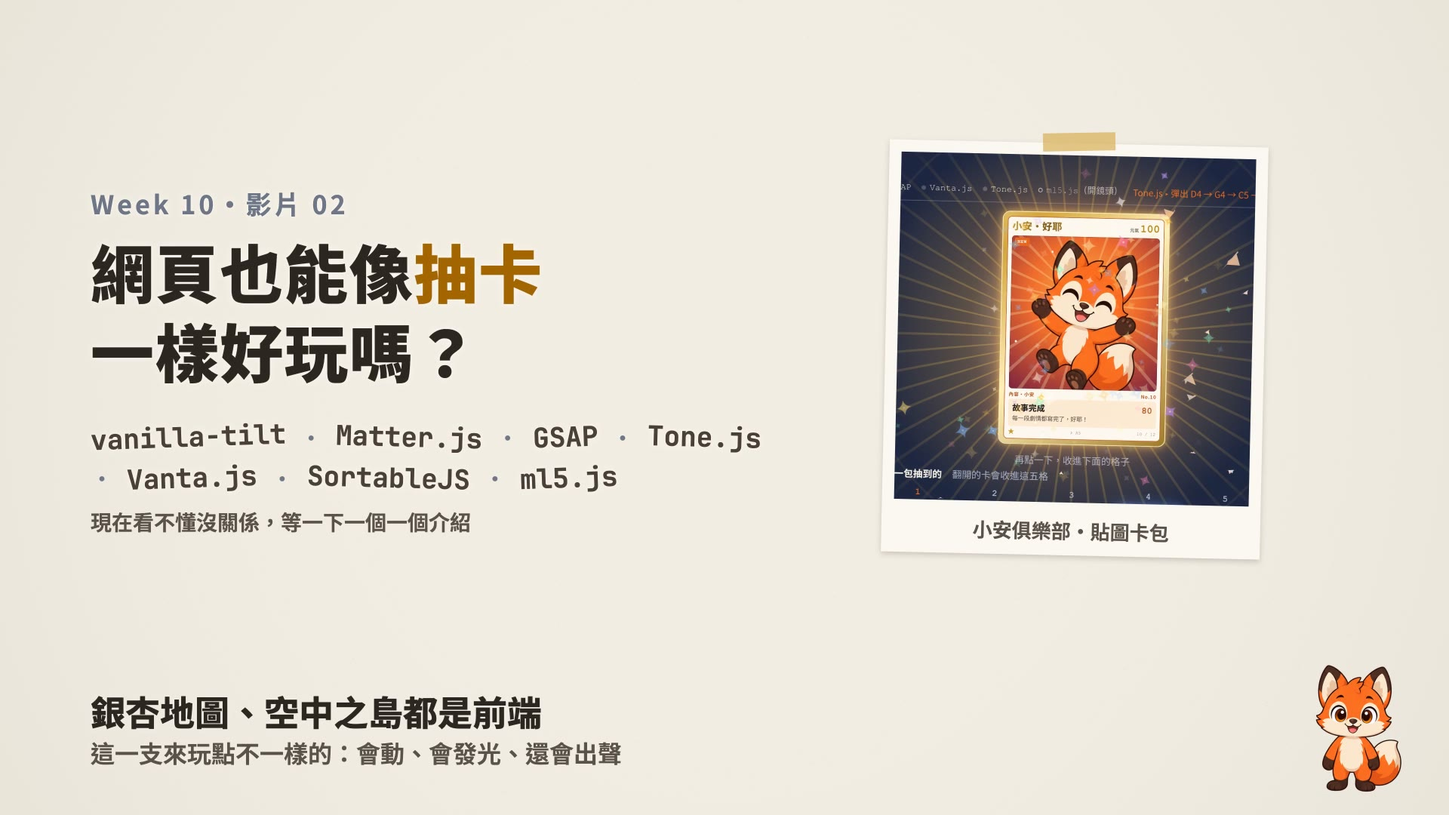
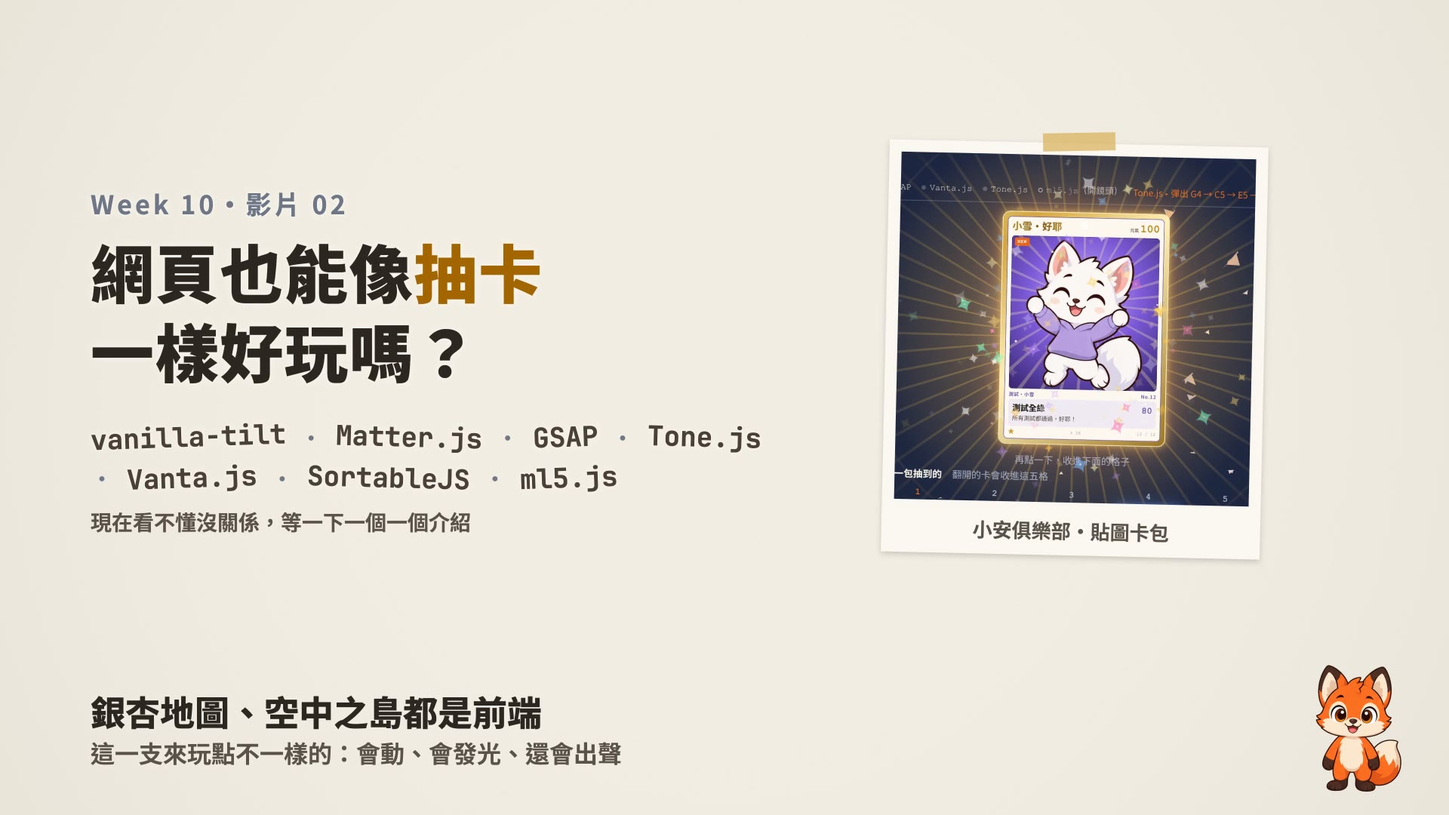
Week 10 video 02 v2 (3:51) and a fixed, more realistic card pack. The teacher's play test: when a card slid into the ranking row, the row shifted sideways and came back for every card. GSAP Flip ran with absolute: true, taking the moving card out of the centred row, so the row was one slot short dur

Changed region(s): [[0.6562, 0.2139, 0.8438, 0.5806]]

diff --git a/weeks/week10/cards-7q3k/app.js b/weeks/week10/cards-7q3k/app.js
@@ -204,8 +204,12 @@
       push(b);
     }
     function strip(rect) {
-      const b = Bodies.rectangle(rect.left + rect.width / 2, rect.top + rect.height / 2, rect.width, rect.height, { restitution: 0.2, friction: 0.6, frictionAir: 0.03, density: 0.0008 });
-      b.plugin = { kind: 'strip', w: rect.width, h: rect.height, born: performance.now() };
+      const cx = rect.cx != null ? rect.cx : rect.left + rect.width / 2, cy = rect.cy != null ? rect.cy : rect.top + rect.height / 2;
+      const b = Bodies.rectangle(cx, cy, rect.width, rect.height, { restitution: 0.2, friction: 0.6, frictionAir: 0.03, density: 0.0008 });
+      if (rect.angle) Body.setAngle(b, rect.angle);
+      const jag = []; let jy = 2;
+      for (let i = 0; i <= Math.max(8, Math.round(rect.width / 5)); i++) { jy = Math.max(0.3, Math.min(4.4, jy + (Math.random() - 0.5) * 2.6)); jag.push(jy); }
+      b.plugin = { kind: 'strip', w: rect.width, h: rect.height, born: performance.now(), jag };
       Body.setVelocity(b, { x: -2, y: -8 }); Body.setAngularVelocity(b, -0.05);
       push(b);
     }
@@ -240,10 +244,19 @@
         } else {
           const g = ctx.createLinearGradient(-p.w / 2, 0, p.w / 2, 0);
           g.addColorStop(0, '#f9b45a'); g.addColorStop(0.5, '#e8641b'); g.addColorStop(1, '#b9430e');
+          const J = p.jag, n = J.length - 1, w2 = p.w / 2, h2 = p.h / 2;
+          ctx.beginPath(); ctx.moveTo(-w2, -h2 + 4);                                    // 上緣：壓封的鋸齒
+          for (let x = 0, k = 0; x <= p.w; x += 4.5, k++) ctx.lineTo(-w2 + x, -h2 + (k % 2 ? 0 : 4));
+          for (let i = n; i >= 0; i--) ctx.lineTo(-w2 + i * p.w / n, h2 + J[i]);         // 下緣：撕開的鋸齒
+          ctx.closePath();
           ctx.shadowColor = 'rgba(40,25,10,.25)'; ctx.shadowBlur = 5; ctx.shadowOffsetY = 2;
-          ctx.fillStyle = g; ctx.fillRect(-p.w / 2, -p.h / 2, p.w, p.h);
-          ctx.shadowColor = 'transparent'; ctx.fillStyle = 'rgba(255,255,255,.28)';
-          for (let x = -p.w / 2; x < p.w / 2; x += 6) ctx.fillRect(x, -p.h / 2, 2, p.h);
+          ctx.fillStyle = g; ctx.fill();
+          ctx.shadowColor = 'transparent';
+          ctx.save(); ctx.clip(); ctx.fillStyle = 'rgba(255,255,255,.28)';
+          for (let x = -w2; x < w2; x += 6) ctx.fillRect(x, -h2, 2, p.h + 6);
+          ctx.restore();
+          ctx.beginPath(); for (let i = 0; i <= n; i++) ctx[i ? 'lineTo' : 'moveTo'](-w2 + i * p.w / n, h2 + J[i] - 0.6);
+          ctx.strokeStyle = 'rgba(255,247,234,.95)'; ctx.lineWidth = 1.4; ctx.stroke();
         }
         ctx.restore();
       }
@@ -360,6 +373,11 @@
       for (const p of parts) {
         p.life += dt; p.vy += p.g * dt; p.vx *= 1 - 1.6 * dt; p.vy *= 1 - 1.2 * dt; p.x += p.vx * dt; p.y += p.vy * dt; p.rot += p.spin * dt;
         const k = p.life / p.max, fade = k < 0.15 ? k / 0.15 : 1 - (k - 0.15) / 0.85, tw = 0.65 + 0.35 * Math.sin(p.life * p.tw);
+        if (p.flake) {   // 紙屑：小紙片翻著掉下來，不發光
+          g.globalCompositeOperation = 'source-over'; g.globalAlpha = Math.max(0, fade); g.fillStyle = p.c;
+          g.save(); g.translate(p.x, p.y); g.rotate(p.rot); g.scale(1, Math.cos(p.life * 9 + p.rot)); g.fillRect(-p.r * 1.3, -p.r * 0.6, p.r * 2.6, p.r * 1.2); g.restore();
+          g.globalCompositeOperation = 'lighter'; continue;
+        }
         g.globalAlpha = Math.max(0, fade * tw);
         star4(p.x, p.y, p.r * (0.6 + 0.4 * tw), p.rot, p.c);
       }
@@ -395,7 +413,12 @@
       const cols = t.classList.contains('pack') || t.dataset.r === 's' ? (Math.random() < 0.5 ? RAINBOW : GOLD) : SILVER;
       spark(e.clientX + (Math.random() - 0.5) * 14, e.clientY + (Math.random() - 0.5) * 14, { colors: cols, speed: 50, lift: 20, size: 5.5, life: 0.9, g: 40 });
     }, { passive: true });
-    return { resize, burst, ring, spark, GOLD, SILVER, RAINBOW };
+    function flake(x, y, n) {
+      if (REDUCED) return;
+      for (let i = 0; i < n; i++) add({ x: x + (Math.random() - 0.5) * 6, y: y + Math.random() * 3, vx: (Math.random() - 0.35) * 90, vy: -30 - Math.random() * 70, g: 520, life: 0, max: 0.8 + Math.random() * 0.5,
+        r: 1.4 + Math.random() * 1.8, c: Math.random() < 0.6 ? '#fff7ea' : (Math.random() < 0.5 ? '#f3a35c' : '#d8d1c6'), rot: Math.random() * 6, spin: (Math.random() - 0.5) * 12, tw: 0, flake: true });
+    }
+    return { resize, burst, ring, spark, flake, GOLD, SILVER, RAINBOW };
   })();
   const flashEl = $('#flash'), glowEl = $('#glow');
   /* 柔和的一閃（最多 45%，慢慢淡掉，不是閃爍） */
@@ -456,22 +479,75 @@
     const p = el('div', 'pack',
       '<div class="pack-tilt"><div class="pack-top"></div><div class="pack-body"><i class="pack-holo"></i><i class="glit"></i><div class="pack-tear">✂ 從這裡撕開</div>' +
       '<div class="pack-ring"><img src="img/an-wave.webp" alt="" draggable="false"></div>' +
-      '<div class="pack-title"><b>小安俱樂部</b><span>貼圖卡包</span></div><div class="pack-sub">第 1 彈・5 張卡＋貼紙<br>每包至少一張 ◆</div></div><div class="pack-bottom"></div></div>');
+      '<div class="pack-title"><b>小安俱樂部</b><span>貼圖卡包</span></div><div class="pack-sub">第 1 彈・5 張卡＋貼紙<br>每包至少一張 ◆</div></div><div class="pack-bottom"></div>' +
+      '<svg class="pack-tearfx" aria-hidden="true"><defs><linearGradient id="tearIn" x1="0" y1="0" x2="0" y2="1"><stop offset="0" stop-color="#3b2414"/><stop offset=".55" stop-color="#a39a8e"/><stop offset="1" stop-color="#f4efe6"/></linearGradient></defs><polygon class="slit" fill="url(#tearIn)" points=""/><polyline class="fib" points=""/></svg>' +
+      '<div class="pack-top pack-flap"><svg aria-hidden="true"><polyline class="fib" points=""/></svg></div></div>');
     spot.append(p);
-    const tilt = $('.pack-tilt', p), top = $('.pack-top', p);
+    const tilt = $('.pack-tilt', p), top = $('.pack-top', p), flap = $('.pack-flap', p), body = $('.pack-body', p), tfx = $('.pack-tearfx', p);
     tiltAdd(tilt, 12);
     if (G) G.fromTo(p, { y: -70, opacity: 0 }, { y: 0, opacity: 1, duration: 0.7, ease: 'back.out(1.3)' });
     setHint('從左到右撕開卡包（點一下也可以）');
-    /* 撕開：按住往右劃，上面那一條會跟著掀起來；劃過一半以上就撕開 */
-    let down = null, prog = 0, step = 0;
-    const setProg = (v) => { prog = Math.max(0, Math.min(1, v)); if (G) G.set(top, { rotation: -20 * prog, y: -10 * prog }); const s = Math.floor(prog * 10); if (s > step) sound.tick(); step = s; };
-    p.addEventListener('pointerdown', (e) => { if (state !== 'pack' || busy) return; firstTouch(); down = { x: e.clientX, w: p.offsetWidth }; try { p.setPointerCapture(e.pointerId); } catch (err) { /* 沒關係 */ } });
+    /* 撕開：撕口照手指走。左邊撕下來的那段往上翹（鉸鏈在撕口），右邊還黏著；撕開的邊是鋸齒狀的紙纖維，
+       卡包本體也照同一條鋸齒切開，撕口露出一條包裝內側；邊撕邊掉紙屑。撕不到一半放手就停在那裡，再拉一次接著撕。 */
+    let down = null, prog = 0, step = 0, geo = null, tearing = null;
+    function measure() {
+      const W = tilt.offsetWidth, H = top.offsetHeight, n = Math.max(12, Math.round(W / 5)), J = [];
+      let y = 2;
+      for (let i = 0; i <= n; i++) { y = Math.max(0.3, Math.min(4.4, y + (Math.random() - 0.5) * 2.6)); J.push(y); }
+      geo = { W, H, n, J, dx: W / n };
+      flap.style.height = (H + 7) + 'px';
+      const fs = $('svg', flap); fs.setAttribute('width', W); fs.setAttribute('height', H + 8);
+      $('.fib', flap).setAttribute('points', J.map((j, i) => (i * geo.dx).toFixed(1) + ',' + (H + j - 0.6).toFixed(1)).join(' '));
+      tfx.setAttribute('width', W); tfx.setAttribute('height', 16); tfx.style.top = (H - 6) + 'px';
+    }
+    function setProg(v) {
+      if (!geo) measure();
+      prog = Math.max(prog, Math.max(0, Math.min(1, v)));            // 撕開的地方不會黏回去
+      if (prog <= 0) return;
+      const { W, H, n, J, dx } = geo, X = prog * W, k = Math.min(n, Math.ceil(X / dx) - 1);
+      const jy = (i) => J[Math.max(0, Math.min(n, i))];
+      const jagAt = (x) => { const f = x / dx, i = Math.floor(f), u = f - i; return jy(i) * (1 - u) + jy(i + 1) * u; };
+      const f1 = (x) => x.toFixed(1), xs = [], j0 = jagAt(X);
+      for (let i = 0; i <= k; i++) xs.push(i);
+      // 撕下來的那段（x ≤ X），下緣是鋸齒
+      let poly = `0 0, ${f1(X)}px 0, ${f1(X)}px ${f1(H + j0)}px`;
+      for (let q = xs.length - 1; q >= 0; q--) poly += `, ${f1(xs[q] * dx)}px ${f1(H + jy(xs[q]))}px`;
+      flap.style.clipPath = `polygon(${poly})`;
+      flap.style.visibility = 'visible';
+      top.style.clipPath = `polygon(${f1(X)}px 0, 100% 0, 100% 100%, ${f1(X)}px 100%)`;
+      // 卡包本體的上緣照同一條鋸齒切（那一點紙跟著撕下來的那段走了）
+      let bp = xs.map((i) => `${f1(i * dx)}px ${f1(jy(i))}px`).join(', ');
+      bp += `, ${f1(X)}px ${f1(j0)}px, ${f1(X)}px 0, 100% 0, 100% 100%, 0 100%`;
+      body.style.clipPath = `polygon(${bp})`;
+      // 撕口：一條包裝內側＋白色紙纖維
+      const top_ = xs.map((i) => `${f1(i * dx)},${f1(6 + jy(i) - 2.4 - (i % 3) * 0.5)}`).concat([`${f1(X)},${f1(6 + j0 - 2.4)}`]);
+      const bot_ = xs.map((i) => `${f1(i * dx)},${f1(6 + jy(i))}`).concat([`${f1(X)},${f1(6 + j0)}`]);
+      $('.slit', tfx).setAttribute('points', top_.concat(bot_.slice().reverse()).join(' '));
+      $('.fib', tfx).setAttribute('points', bot_.join(' '));
+      const deg = 30 * Math.pow(Math.min(1, prog * 1.6), 0.7);
+      flap.style.transformOrigin = `${f1(X)}px ${H}px`;
+      flap.style.transform = `translateY(${(-1.5 * prog).toFixed(2)}px) rotate(${deg.toFixed(2)}deg)`;   // 順時針：左端（撕開的那頭）往上翹
+      flap.style.setProperty('--peel', (deg / 30).toFixed(3));
+      p._tearDeg = deg;
+      const s = Math.floor(prog * 12);
+      if (s > step) { sound.tick(); const r = tilt.getBoundingClientRect(); fx.flake(r.left + X, r.top + H, 3); }
+      step = s;
+    }
+    /* 點一下、鍵盤、揮手：自己撕完（從撕到哪裡接著撕） */
+    function autoTear(then) {
+      if (tearing) return;
+      if (!geo) measure();
+      if (!G) { setProg(1); then(); return; }
+      const o = { v: prog };
+      tearing = G.to(o, { v: 1, duration: 0.18 + 0.5 * (1 - prog), ease: 'power1.in', onUpdate() { setProg(o.v); }, onComplete: then });
+    }
+    p._tear = () => { if (state === 'pack' && !busy) { busy = true; autoTear(() => { busy = false; openPack(p); }); } };   // 撕的時候算「忙」，別的操作先等
+    p.addEventListener('pointerdown', (e) => { if (state !== 'pack' || busy || tearing) return; firstTouch(); if (!geo) measure(); down = { x: e.clientX - prog * geo.W * 0.7, x0: e.clientX, w: geo.W }; try { p.setPointerCapture(e.pointerId); } catch (err) { /* 沒關係 */ } });
     p.addEventListener('pointermove', (e) => { if (down) setProg((e.clientX - down.x) / (down.w * 0.7)); });
     const up = (e) => {
       if (!down) return;
-      const moved = Math.abs(e.clientX - down.x); down = null;
-      if (prog > 0.55 || moved < 6) openPack(p);
-      else if (G) G.to(top, { rotation: 0, y: 0, duration: 0.3, ease: 'power2.out', onComplete() { prog = 0; step = 0; } });
+      const moved = Math.abs(e.clientX - down.x0); down = null;
+      if (prog > 0.55 || moved < 6) p._tear();
     };
     p.addEventListener('pointerup', up); p.addEventListener('pointercancel', () => { down = null; });
   }
@@ -479,9 +555,11 @@
   function openPack(p) {
     if (state !== 'pack' || busy) return;
     busy = true; firstTouch();
-    const top = $('.pack-top', p), tr = top.getBoundingClientRect(), box = p.getBoundingClientRect();
-    top.style.visibility = 'hidden';
-    phys.strip({ left: tr.left + tr.width / 2 - top.offsetWidth / 2, top: tr.top + tr.height / 2 - top.offsetHeight / 2, width: top.offsetWidth, height: top.offsetHeight });
+    const top = $('.pack-top', p), flap = $('.pack-flap', p), box = p.getBoundingClientRect(), tr = $('.pack-tilt', p).getBoundingClientRect();
+    // 撕下來的那一條交給 Matter.js：照翹起來的角度，繞撕口（右上角那個鉸鏈）算出中心
+    const SW = top.offsetWidth, SH = top.offsetHeight, ang = (p._tearDeg || 0) * Math.PI / 180, hx = tr.left + SW, hy = tr.top + SH, ox = -SW / 2, oy = -SH / 2;
+    top.style.visibility = 'hidden'; if (flap) flap.style.visibility = 'hidden';
+    phys.strip({ cx: hx + ox * Math.cos(ang) - oy * Math.sin(ang), cy: hy + ox * Math.sin(ang) + oy * Math.cos(ang), width: SW, height: SH, angle: ang });
     for (let i = 0; i < 4; i++) setTimeout(() => sound.tick(), i * 45);
     const cards = pull(); packs++;
     stack = cards.map((d) => makeCard(d, true));
@@ -506,6 +584,7 @@
     c.onclick = () => next();
     setHint(c._d.r === 'c' ? '點一下翻開' : '這張的邊在發光……點一下翻開');
   }
+  let raysTw = null;   // 閃卡背後光芒的旋轉；關掉 GSAP（80 倍速）時要另外抵銷，不然會狂轉
   function flip(c) {
     busy = true;
     const d = c._d, f = $('.card-flip', c), isNew = !have.has(d.id);
@@ -520,7 +599,7 @@
     const pop = () => { const m = centerOf(c); return m; };
     if (d.r === 's') {            // ★：天色暗下來、光柱亮起、卡片輕輕顫、慢慢翻開，金光爆開
       dusk(true);
-      G.set(rays, { rotation: 0 }); G.to(rays, { rotation: 360, duration: 120, ease: 'none', repeat: -1 });
+      G.set(rays, { rotation: 0 }); raysTw = G.to(rays, { rotation: 360, duration: 120, ease: 'none', repeat: -1 }); if (!on.gsap) raysTw.timeScale(1 / 80);
       tl.to(rays, { opacity: 0.75, duration: 0.7 }, 0)
         .to(glowEl, { opacity: 1, duration: 0.8 }, 0)
         .to(c, { scale: 1.06, duration: 0.6, ease: 'power2.out' }, 0)
@@ -555,7 +634,7 @@
       c.classList.remove('big', 'instack', 'top'); c.style.zIndex = '';
       G.set(c, { clearProps: 'transform,opacity' });
       ph.replaceWith(c);
-      Flip.from(st, { duration: 0.6, ease: 'power2.inOut', scale: true, absolute: true, onComplete: after });
+      Flip.from(st, { duration: 0.6, ease: 'power2.inOut', scale: true, absolute: false, onComplete: after });   // absolute: true 會讓下面那排少一格、整排移動
       say('gsap', 'Flip：卡片滑進第 ' + slot + ' 格');
     } else {
       c.classList.remove('big', 'instack', 'top'); c.style.zIndex = ''; c.style.transform = '';
@@ -620,7 +699,7 @@
     if (G && window.Flip) {
       const st = Flip.getState(cards);
       order.forEach((c) => rank.append(c));
-      Flip.from(st, { duration: 0.7, ease: 'power3.inOut', stagger: 0.04, absolute: true });
+      Flip.from(st, { duration: 0.7, ease: 'power3.inOut', stagger: 0.04, absolute: false });
       say('gsap', 'Flip：五張卡一起滑到新的名次');
     } else order.forEach((c) => rank.append(c));
   }
@@ -644,7 +723,7 @@
   function next() {
     if (busy) return;
     firstTouch();
-    if (state === 'pack') { const p = $('.pack', spot); if (p) openPack(p); }
+    if (state === 'pack') { const p = $('.pack', spot); if (p) { if (p._tear) p._tear(); else openPack(p); } }
     else if (state === 'reveal') { const c = stack[idx]; if (c.classList.contains('up')) stash(c); else flip(c); }
     else if (state === 'rank') {
       const ds = $$('.card', rank).map((c) => c._d), i = hero ? ds.indexOf(hero._d) : -1, d = ds[(i + 1) % ds.length];
@@ -738,7 +817,7 @@
     if (k === 'tilt') { if (on.tilt) tilts.forEach(tiltInit); else tilts.forEach((t) => { if (t.vanillaTilt) t.vanillaTilt.destroy(); t.style.setProperty('--tilt', '0'); }); say(k, on.tilt ? '打開了：卡片又會傾斜、反光' : off + '卡片變成平的'); }
     if (k === 'matter') { phys.set(on.matter); say(k, on.matter ? '打開了：貼紙回來了' : off + '貼紙不見了'); }
     if (k === 'sortable') { if (sortable) sortable.option('disabled', !on.sortable); say(k, on.sortable ? '打開了：可以拖拉排名次' : off + '卡片拖不動了'); }
-    if (k === 'gsap') { if (G) G.globalTimeline.timeScale(on.gsap ? 1 : 80); say(k, on.gsap ? '打開了：動作又滑順了' : off + '翻卡、移動都變成瞬間完成'); }
+    if (k === 'gsap') { if (G) G.globalTimeline.timeScale(on.gsap ? 1 : 80); if (raysTw) raysTw.timeScale(on.gsap ? 1 : 1 / 80); say(k, on.gsap ? '打開了：動作又滑順了' : off + '翻卡、移動都變成瞬間完成'); }
     if (k === 'vanta') { if (on.vanta) vantaStart(); else { vantaStop(); say(k, off + '背景只剩一張紙'); } }
     if (k === 'tone') { sound.mute(!on.tone); say(k, on.tone ? '打開了：每張卡又有聲音' : off + '全部靜音'); }
   }

diff --git a/weeks/week10/index.html b/weeks/week10/index.html
@@ -160,7 +160,8 @@
         <li><button type="button" data-t="137"><span class="k">02:17</span><span class="t" data-i18n data-zh-hans="SortableJS：拖拽排序，加上 GSAP Flip" data-en="SortableJS: drag to reorder, with GSAP Flip" data-vi="SortableJS: kéo thả để sắp xếp, cùng GSAP Flip">SortableJS：拖拉排序，加上 GSAP Flip</span></button></li>
         <li><button type="button" data-t="155"><span class="k">02:35</span><span class="t" data-i18n data-zh-hans="ml5.js：用摄像头认手（机器学习）" data-en="ml5.js: recognising your hand with the camera (machine learning)" data-vi="ml5.js: nhận ra bàn tay qua camera (học máy)">ml5.js：用鏡頭認手（機器學習）</span></button></li>
         <li><button type="button" data-t="180"><span class="k">03:00</span><span class="t" data-i18n data-zh-hans="练习：做一包你自己的卡包" data-en="Practice: make your own card pack" data-vi="Luyện tập: làm gói thẻ của riêng bạn">練習：做一包你自己的卡包</span></button></li>
-        <li><button type="button" data-t="197"><span class="k">03:17</span><span class="t" data-i18n data-zh-hans="结尾" data-en="Wrap-up" data-vi="Kết">結尾</span></button></li>
+        <li><button type="button" data-t="197"><span class="k">03:17</span><span class="t" data-i18n data-zh-hans="软件包，是给 AI 的参考" data-en="Packages are references for the AI" data-vi="Gói là để AI tham khảo">套件，是給 AI 的參考</span></button></li>
+        <li><button type="button" data-t="223"><span class="k">03:43</span><span class="t" data-i18n data-zh-hans="结尾" data-en="Wrap-up" data-vi="Kết">結尾</span></button></li>
       </ol>
 
 
@@ -194,6 +195,10 @@
           data-zh-hans="&lt;strong&gt;练习：做一包你自己的卡包。&lt;/strong&gt;先在上面玩一次范例，下载素材 card-pack-assets.zip，新建一个文件夹放进去，用 Codex 打开；一次只交代一件事，做完看一眼再往下。参考 prompt：&lt;br&gt;①“用 img 里的狐狸图做一个抽卡网页：一包 5 张，点一下翻一张。卡片用 vanilla-tilt 倾斜反光，翻卡动画用 GSAP。”&lt;br&gt;②“撕开卡包时，用 Matter.js 让贴纸掉下来，可以抓起来丢。背景用 Vanta.js 的飞鸟；每翻一张卡，用 Tone.js 弹一个音。”&lt;br&gt;③“翻完收进下面的排行榜：用 SortableJS 拖拽换名次，换位置时用 GSAP Flip 滑过去。”&lt;br&gt;挑战：“用 ml5.js 的 handPose 打开摄像头：手左右挥一下，就翻下一张。”&lt;br&gt;验收：撕得开、翻得了、听得到、拖得动；开发者工具的“网络”里，七个软件包都是从 cdn.jsdelivr.net GET 来的。不一定一次就成功，哪里不对，截图给 Codex 再说一次。"
           data-en="&lt;strong&gt;Practice: make your own card pack.&lt;/strong&gt; Play the example above first, download card-pack-assets.zip, put it in a new folder and open the folder in Codex; ask for one thing at a time and look before asking for the next. Reference prompts:&lt;br&gt;1. “Use the fox images in img to make a card-pack page: 5 cards per pack, one click flips one. Make the cards tilt and shine with vanilla-tilt, and animate the flip with GSAP.”&lt;br&gt;2. “When the pack is torn open, use Matter.js to drop stickers that can be picked up and thrown. Use Vanta.js birds as the background, and play a note with Tone.js for each card flipped.”&lt;br&gt;3. “After flipping, put the cards in a ranking row below: drag to reorder with SortableJS, and slide them into place with GSAP Flip.”&lt;br&gt;Challenge: “Use ml5.js handPose with the camera: wave your hand left or right to flip the next card.”&lt;br&gt;Check: the pack tears open, cards flip, you hear the notes and you can drag the cards; in the DevTools Network tab all seven packages are fetched (GET) from cdn.jsdelivr.net. It may not work the first time: show Codex a screenshot of what is wrong and ask again."
           data-vi="&lt;strong&gt;Luyện tập: làm gói thẻ của riêng bạn.&lt;/strong&gt; Chơi thử ví dụ ở trên trước, tải card-pack-assets.zip, bỏ vào một thư mục mới rồi mở bằng Codex; mỗi lần chỉ dặn một việc, xem qua rồi mới làm tiếp. Prompt tham khảo:&lt;br&gt;1. “Dùng các hình cáo trong img làm một trang mở gói thẻ: mỗi gói 5 thẻ, bấm một lần lật một thẻ. Thẻ nghiêng và lóe sáng bằng vanilla-tilt, hoạt ảnh lật thẻ dùng GSAP.”&lt;br&gt;2. “Khi xé gói, dùng Matter.js cho nhãn dán rơi xuống, nhặt lên ném được. Hình nền dùng đàn chim của Vanta.js; mỗi lần lật một thẻ, dùng Tone.js chơi một nốt.”&lt;br&gt;3. “Lật xong thì xếp vào hàng xếp hạng bên dưới: kéo thả đổi thứ hạng bằng SortableJS, khi đổi chỗ dùng GSAP Flip cho thẻ trượt qua.”&lt;br&gt;Thử thách: “Dùng handPose của ml5.js mở camera: vẫy tay sang trái hoặc phải là lật thẻ tiếp theo.”&lt;br&gt;Nghiệm thu: xé được gói, lật được thẻ, nghe được tiếng, kéo được thẻ; trong thẻ Network của DevTools, cả bảy gói đều được GET từ cdn.jsdelivr.net. Không nhất thiết thành công ngay lần đầu: chỗ nào sai, chụp màn hình gửi Codex rồi nói lại."><strong>練習：做一包你自己的卡包。</strong>先在上面玩一次範例，下載素材 card-pack-assets.zip，開一個新資料夾放進去，用 Codex 打開；一次只交代一件事，做完看一眼再往下。參考 prompt：<br>①「用 img 裡的狐狸圖做一個抽卡網頁：一包 5 張，點一下翻一張。卡片用 vanilla-tilt 傾斜反光，翻卡動畫用 GSAP。」<br>②「撕開卡包時，用 Matter.js 讓貼紙掉下來，可以抓起來丟。背景用 Vanta.js 的飛鳥；每翻一張卡，用 Tone.js 彈一個音。」<br>③「翻完收進下面的排行榜：用 SortableJS 拖拉換名次，換位置時用 GSAP Flip 滑過去。」<br>挑戰：「用 ml5.js 的 handPose 開鏡頭：手左右揮一下，就翻下一張。」<br>驗收：撕得開、翻得了、聽得到、拖得動；開發者工具的「網路」裡，七個套件都是從 cdn.jsdelivr.net GET 來的。不一定一次就成功，哪裡不對，截圖給 Codex 再說一次。</p></li>
+        <li><p data-i18n
+          data-zh-hans="&lt;strong&gt;软件包是给 AI 的参考，不是限制。&lt;/strong&gt;这些软件包不用全部记住，也不是一定要用：现在的 AI 很强，这些效果不用软件包，它也能直接用网页源代码写出来。讲软件包，是因为给 AI 一个明确的参考（例如“像 vanilla-tilt 那样”），它就知道要做成什么样子。你自己做出来的效果、工具，也可以打包成软件包，之后交给自己的 AI 参考。"
+          data-en="&lt;strong&gt;A package is a reference for the AI, not a rule.&lt;/strong&gt; You do not need to memorise these packages, and you do not have to use them: today&#x27;s AI is strong enough to write these effects directly in plain web code. Packages matter because they give the AI a clear reference (“like vanilla-tilt”), so it knows exactly what to make. Effects and tools you build yourself can be packaged too, as references for your own AI later."
+          data-vi="&lt;strong&gt;Gói là để AI tham khảo, không phải giới hạn.&lt;/strong&gt; Không cần thuộc lòng các gói này, cũng không bắt buộc phải dùng: AI bây giờ rất mạnh, những hiệu ứng này nó có thể viết thẳng bằng mã nguồn web mà không cần gói. Nói về gói là vì đưa cho AI một mẫu tham khảo rõ ràng (ví dụ “giống vanilla-tilt”) thì nó biết chính xác phải làm gì. Hiệu ứng, công cụ bạn tự làm ra cũng có thể đóng gói lại, sau này giao cho AI của mình tham khảo."><strong>套件，是給 AI 的參考，不是限制。</strong>這些套件不用全部記起來，也不是一定要用：現在的 AI 很強，這些效果不用套件，它也能直接用網頁原始碼寫出來。講套件，是因為給 AI 一個明確的參考（例如「像 vanilla-tilt 那樣」），它就知道要做成什麼樣子。你自己做出來的效果、工具，也可以包成套件，之後交給自己的 AI 參考。</p></li>
       </ol>
     </section>
 

diff --git a/assets/course.js b/assets/course.js
@@ -287,22 +287,22 @@
       href: "weeks/week10/",
       thumb: "weeks/week10/video/01-frontend/thumb.jpg",
       still: "weeks/week10/video/01-frontend/poster.jpg",
-      meta: "2 支影片・共 8 分 14 秒",
+      meta: "2 支影片・共 8 分 40 秒",
       i18n: {
         "zh-Hans": {
           title: "东西该放在哪里：前端、后端、数据库",
           summary: "你做的都是前端：浏览器把文件 GET 到你的电脑上跑，所以看得到、改得了、只在这台、各跑各的；登录和注册要交给后端。",
-          meta: "2 个视频・共 8 分 14 秒",
+          meta: "2 个视频・共 8 分 40 秒",
         },
         en: {
           title: "Where Things Belong: Front-end, Back-end, Database",
           summary: "Everything you have built is front-end: the browser GETs the files and runs them on your computer, so they can be seen, changed, stay on one machine and run separately; login and sign-up belong to the back-end.",
-          meta: "2 videos · 8 min 14 s in total",
+          meta: "2 videos · 8 min 40 s in total",
         },
         vi: {
           title: "Mọi thứ nên đặt ở đâu: front-end, back-end, cơ sở dữ liệu",
           summary: "Những gì bạn đã làm đều là front-end: trình duyệt GET tệp về và chạy trên máy bạn, nên xem được, sửa được, chỉ ở máy này, mỗi người một bản; đăng nhập và đăng ký phải giao cho back-end.",
-          meta: "2 video · tổng cộng 8 phút 14 giây",
+          meta: "2 video · tổng cộng 8 phút 40 giây",
         },
       },
     },

diff --git a/weeks/week10/cards-7q3k/style.css b/weeks/week10/cards-7q3k/style.css
@@ -67,6 +67,12 @@ body:not(.dusk) #glow { background: radial-gradient(circle, rgba(255, 255, 255, 
 .pack-bottom { bottom: 0; height: 7%; --z: 9px;
   -webkit-mask: conic-gradient(from -45deg at bottom, #0000, #000 1deg 89deg, #0000 90deg) 50% 100% / var(--z) 100%;
   mask: conic-gradient(from -45deg at bottom, #0000, #000 1deg 89deg, #0000 90deg) 50% 100% / var(--z) 100%; }
+/* 撕卡包：撕下來的那段（.pack-flap，和 .pack-top 長得一樣）、撕口（.pack-tearfx：包裝內側＋白色紙纖維） */
+.pack-flap { visibility: hidden; pointer-events: none; will-change: transform; }
+.pack-flap::before { content: ''; position: absolute; inset: 0; z-index: 1; pointer-events: none; background: linear-gradient(0deg, rgba(90, 30, 0, calc(var(--peel, 0) * .38)), transparent 75%); }
+.pack-flap svg { position: absolute; left: 0; top: 0; z-index: 2; overflow: visible; }
+.pack-tearfx { position: absolute; left: 0; pointer-events: none; overflow: visible; }
+.pack .fib { fill: none; stroke: #fff7ea; stroke-width: 1.5; stroke-linejoin: round; opacity: .95; }
 .pack-top::after, .pack-bottom::after { content: ''; position: absolute; inset: 0; background: repeating-linear-gradient(90deg, rgba(255, 255, 255, .28) 0 2px, rgba(120, 40, 0, .12) 2px 6px); }
 .pack-body { top: 9%; bottom: 7%; overflow: hidden; container-type: inline-size; display: flex; flex-direction: column; align-items: center; text-align: center; }
 .pack-body::before { content: ''; position: absolute; inset: 0; pointer-events: none;

diff --git a/README.md b/README.md
@@ -26,7 +26,7 @@ An open course on working with AI coding agents, hands-on every week<br>
 <table>
 <tr><td><b>Pilot site</b></td><td>National Taiwan Normal University (NTNU), 2026, in the course <i>Learning Analytics Tools Implementation Applications</i></td></tr>
 <tr><td><b>Format</b></td><td>Weekly microlearning videos (1–5 min, one idea each) with chapters, numbered key points and time links; a practice computer in the browser; project-based homework; a scenario-based exam</td></tr>
-<tr><td><b>Published</b></td><td>Weeks 1–10: 39 videos, about 120 minutes (November 2026), updated weekly</td></tr>
+<tr><td><b>Published</b></td><td>Weeks 1–10: 39 videos, about 121 minutes (November 2026), updated weekly</td></tr>
 <tr><td><b>Languages</b></td><td>Site in English, Traditional Chinese, Simplified Chinese and Vietnamese, chosen from the browser's language. Weeks 1–8 are fully in English too: every video, the practice computers and the Week 6 exam</td></tr>
 <tr><td><b>Access</b></td><td>Mac and Windows supported alike; light and dark themes, screen-reader labels, reduced motion. No login, no cookies and no tracking of individuals; watch progress stays in the student's own browser</td></tr>
 <tr><td><b>Licenses</b></td><td>Code <a href="LICENSE">MIT</a>; videos and course content <a href="LICENSE-CONTENT.md">CC BY-NC-SA 4.0</a></td></tr>
@@ -101,7 +101,7 @@ All 29 walking-map sites from the first class are in the [student gallery](https
 | | [04 Midterm Briefing](https://ai-agent-literacy.pages.dev/weeks/week08/?lang=en#04-midterm) (in Chinese) | 6:48 |
 | | [Extra 1 Branches and Pull Requests: Three People, One Project](https://ai-agent-literacy.pages.dev/weeks/week08/?lang=en#s1-branch-pr) ・ [Extra 2 Writing Up a Bug Clearly: GitHub Issues](https://ai-agent-literacy.pages.dev/weeks/week08/?lang=en#s2-bug-issue) | 3:34 ・ 2:48 |
 | Week 10 | [01 Everything You've Built Is Front-end](https://ai-agent-literacy.pages.dev/weeks/week10/?lang=en#01-frontend) (in Chinese) | 4:49 |
-| | [02 Fun Front-end Packages: A Card Pack That Glows](https://ai-agent-literacy.pages.dev/weeks/week10/?lang=en#02-card-pack) (in Chinese) | 3:25 |
+| | [02 Fun Front-end Packages: A Card Pack That Glows](https://ai-agent-literacy.pages.dev/weeks/week10/?lang=en#02-card-pack) (in Chinese) | 3:51 |
 
 **Topics covered**: AI coding agents (OpenAI Codex, Claude Code), giving clear instructions, approvals and permission modes, models, tokens and usage, working folders and the terminal, `AGENTS.md` and the context window, the built-in browser, GitHub and Mermaid, verification checklists (`VERIFY.md`), switching models mid-task (GPT-6 Luna → GPT-6.1 Sol), the Codex agent loop and automatic compaction, test-driven development, `PLANS.md` and `TESTS.md`, mutation testing, user stories, branches and pull requests, and GitHub issues.
 
@@ -176,7 +176,7 @@ Thanks to the students taking the course.
 <table>
 <tr><td><b>首個示範場域</b></td><td>國立臺灣師範大學（2026），課程「學習分析工具」（Learning Analytics Tools Implementation Applications）</td></tr>
 <tr><td><b>形式</b></td><td>每週微學習影片（1–5 分鐘，一支一個概念），附章節、編號重點和時間連結；瀏覽器裡的練習電腦；專題作業；情境式考試</td></tr>
-<tr><td><b>已公開</b></td><td>Week 1–10：39 支影片，約 120 分鐘（2026 年 11 月），每週更新</td></tr>
+<tr><td><b>已公開</b></td><td>Week 1–10：39 支影片，約 121 分鐘（2026 年 11 月），每週更新</td></tr>
 <tr><td><b>語言</b></td><td>網站有英文、繁體中文、簡體中文、越南文，依瀏覽器語言自動選。Week 1–8 另有完整英文版：每支影片、練習電腦、Week 6 考試</td></tr>
 <tr><td><b>無障礙與隱私</b></td><td>Mac 與 Windows 同樣支援；深淺色主題、螢幕閱讀器標示、減少動態效果。不用登入、不用 cookie、不追蹤個人，觀看進度只存在學生自己的瀏覽器</td></tr>
 <tr><td><b>授權</b></td><td>程式 <a href="LICENSE">MIT</a>；影片與教材 <a href="LICENSE-CONTENT.md">CC BY-NC-SA 4.0</a></td></tr>
@@ -240,7 +240,7 @@ Thanks to the students taking the course.
 | | [04 期中說明](https://ai-agent-literacy.pages.dev/weeks/week08/#04-midterm) | 6:48 |
 | | [補充 1 分支與 Pull Request：三個人一起改同一個專案](https://ai-agent-literacy.pages.dev/weeks/week08/#s1-branch-pr)・[補充 2 把 bug 寫清楚：GitHub Issue](https://ai-agent-literacy.pages.dev/weeks/week08/#s2-bug-issue) | 3:34・2:48 |
 | Week 10 | [01 你做的都是前端](https://ai-agent-literacy.pages.dev/weeks/week10/#01-frontend) | 4:49 |
-| | [02 好玩的前端套件：做一包會發光的卡包](https://ai-agent-literacy.pages.dev/weeks/week10/#02-card-pack) | 3:25 |
+| | [02 好玩的前端套件：做一包會發光的卡包](https://ai-agent-literacy.pages.dev/weeks/week10/#02-card-pack) | 3:51 |
 
 **涵蓋主題**：AI 程式助理（OpenAI Codex、Claude Code）、把事情交代清楚、核准與權限模式、模型與 token 用量、工作資料夾與終端機、`AGENTS.md` 與 context window、內建瀏覽器、GitHub 與 Mermaid、驗證清單（`VERIFY.md`）、做到一半換模型（GPT-6 Luna → GPT-6.1 Sol）、Codex 的 agent loop 與自動壓縮、測試驅動開發、`PLANS.md` 與 `TESTS.md`、突變測試（mutation testing）、user story、分支與 pull request、GitHub issue。
 
@@ -303,7 +303,7 @@ python -m http.server 8000
 <table>
 <tr><td><b>首个示范场域</b></td><td>台湾师范大学（2026），课程“学习分析工具”（Learning Analytics Tools Implementation Applications）</td></tr>
 <tr><td><b>形式</b></td><td>每周微学习视频（1–5 分钟，一个视频一个概念），附章节、编号要点和时间链接；浏览器里的练习电脑；项目式作业；情境式考试</td></tr>
-<tr><td><b>已公开</b></td><td>Week 1–10：39 个视频，约 120 分钟（2026 年 11 月），每周更新</td></tr>
+<tr><td><b>已公开</b></td><td>Week 1–10：39 个视频，约 121 分钟（2026 年 11 月），每周更新</td></tr>
 <tr><td><b>语言</b></td><td>网站有英文、繁体中文、简体中文、越南文，按浏览器语言自动选择。Week 1–8 另有完整英文版：每个视频、练习电脑、Week 6 考试</td></tr>
 <tr><td><b>无障碍与隐私</b></td><td>Mac 与 Windows 同样支持；深浅色主题、屏幕阅读器标签、减少动态效果。无需登录、不用 cookie、不追踪个人，观看进度只保存在学生自己的浏览器</td></tr>
 <tr><td><b>许可</b></td><td>代码 <a href="LICENSE">MIT</a>；视频与教材 <a href="LICENSE-CONTENT.md">CC BY-NC-SA 4.0</a></td></tr>
@@ -367,7 +367,7 @@ python -m http.server 8000
 | | [04 期中说明](https://ai-agent-literacy.pages.dev/weeks/week08/?lang=zh-Hans#04-midterm) | 6:48 |
 | | [补充 1 分支与 Pull Request：三个人一起改同一个项目](https://ai-agent-literacy.pages.dev/weeks/week08/?lang=zh-Hans#s1-branch-pr)・[补充 2 把 bug 写清楚：GitHub Issue](https://ai-agent-literacy.pages.dev/weeks/week08/?lang=zh-Hans#s2-bug-issue) | 3:34・2:48 |
 | Week 10 | [01 你做的都是前端](https://ai-agent-literacy.pages.dev/weeks/week10/?lang=zh-Hans#01-frontend) | 4:49 |
-| | [02 好玩的前端软件包：做一包会发光的卡包](https://ai-agent-literacy.pages.dev/weeks/week10/?lang=zh-Hans#02-card-pack) | 3:25 |
+| | [02 好玩的前端软件包：做一包会发光的卡包](https://ai-agent-literacy.pages.dev/weeks/week10/?lang=zh-Hans#02-card-pack) | 3:51 |
 
 **涵盖主题**：AI 编程助手（OpenAI Codex、Claude Code）、把事情交代清楚、批准与权限模式、模型与 token 用量、工作文件夹与终端、`AGENTS.md` 与上下文窗口、内置浏览器、GitHub 与 Mermaid、验证清单（`VERIFY.md`）、做到一半换模型（GPT-6 Luna → GPT-6.1 Sol）、Codex 的 agent loop 与自动压缩、测试驱动开发、`PLANS.md` 与 `TESTS.md`、突变测试（mutation testing）、user story、分支与 pull request、GitHub issue。
 
@@ -430,7 +430,7 @@ python -m http.server 8000
 <table>
 <tr><td><b>最初の実践の場</b></td><td>国立台湾師範大学（2026 年）、授業「学習分析ツール」（Learning Analytics Tools Implementation Applications）</td></tr>
 <tr><td><b>形式</b></td><td>毎週のマイクロラーニング動画（1〜5 分、1 本にひとつの概念、チャプター・番号つき要点・タイムリンクつき）、ブラウザ上の練習用コンピューター、プロジェクト型の課題、シナリオ型の試験</td></tr>
-<tr><td><b>公開済み</b></td><td>Week 1〜10：動画 39 本、約 120 分（2026 年 11 月時点）、毎週更新</td></tr>
+<tr><td><b>公開済み</b></td><td>Week 1〜10：動画 39 本、約 121 分（2026 年 11 月時点）、毎週更新</td></tr>
 <tr><td><b>言語</b></td><td>サイトは英語・繁体字中国語・簡体字中国語・ベトナム語（日本語は未対応）で、ブラウザの言語で自動選択。Week 1〜8 は動画・練習用コンピュータ・Week 6 の試験まで完全な英語版あり</td></tr>
 <tr><td><b>アクセシビリティとプライバシー</b></td><td>Mac と Windows の両方に同じように対応。ライト／ダークテーマ、スクリーンリーダー用ラベル、動きを減らす設定。ログイン不要、Cookie なし、個人の追跡なし。視聴の進み具合は学生自身のブラウザにだけ保存</td></tr>
 <tr><td><b>ライセンス</b></td><td>コード <a href="LICENSE">MIT</a>、動画と教材 <a href="LICENSE-CONTENT.md">CC BY-NC-SA 4.0</a></td></tr>
@@ -494,7 +494,7 @@ python -m http.server 8000
 | | [04 中間課題の説明](https://ai-agent-literacy.pages.dev/weeks/week08/#04-midterm)（中国語のみ） | 6:48 |
 | | [補足 1 ブランチと Pull Request：3 人で同じプロジェクトを直す](https://ai-agent-literacy.pages.dev/weeks/week08/#s1-branch-pr)・[補足 2 バグをはっきり書く：GitHub Issue](https://ai-agent-literacy.pages.dev/weeks/week08/#s2-bug-issue) | 3:34・2:48 |
 | Week 10 | [01 これまで作ったものは、すべてフロントエンド](https://ai-agent-literacy.pages.dev/weeks/week10/#01-frontend)（中国語のみ） | 4:49 |
-| | [02 楽しいフロントエンドのパッケージ：光るカードパック](https://ai-agent-literacy.pages.dev/weeks/week10/#02-card-pack)（中国語のみ） | 3:25 |
+| | [02 楽しいフロントエンドのパッケージ：光るカードパック](https://ai-agent-literacy.pages.dev/weeks/week10/#02-card-pack)（中国語のみ） | 3:51 |
 
 **扱うテーマ**：AI コーディングエージェント（OpenAI Codex、Claude Code）、明確な指示の出し方、承認と権限モード、モデルとトークン使用量、作業フォルダとターミナル、`AGENTS.md` とコンテキストウィンドウ、内蔵ブラウザ、GitHub と Mermaid、検証チェックリスト（`VERIFY.md`）、作業途中のモデル切り替え（GPT-6 Luna → GPT-6.1 Sol）、Codex のエージェントループと自動圧縮、テスト駆動開発、`PLANS.md` と `TESTS.md`、ミューテーションテスト、user story、ブランチと pull request、GitHub issue。
 
